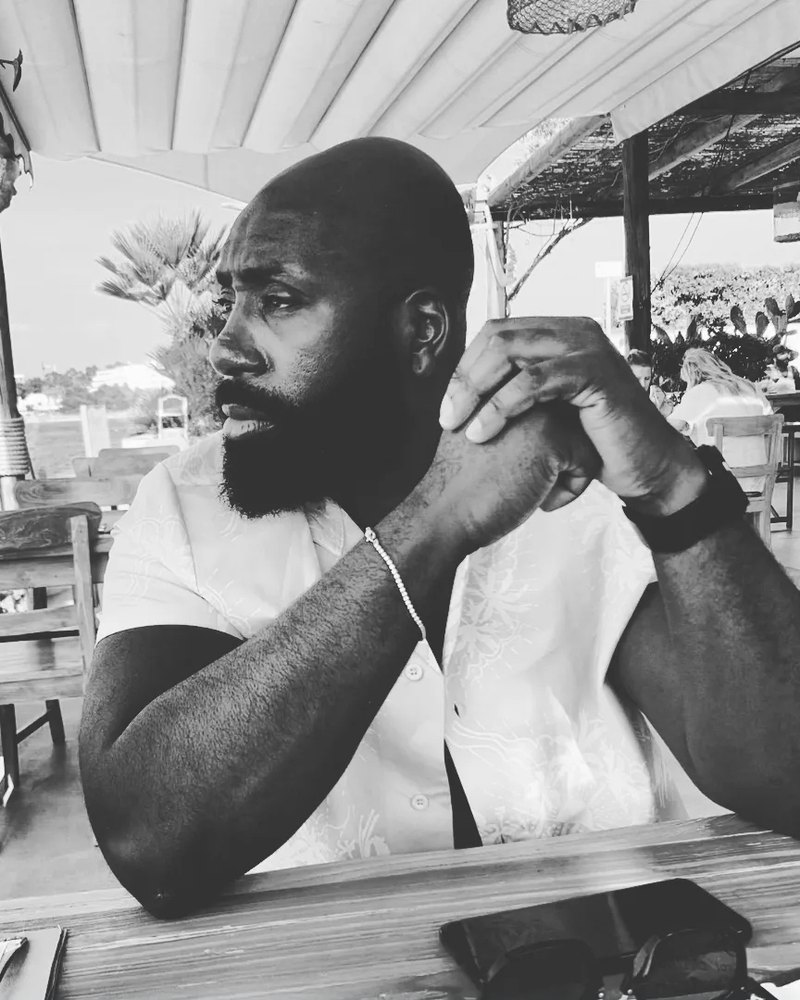
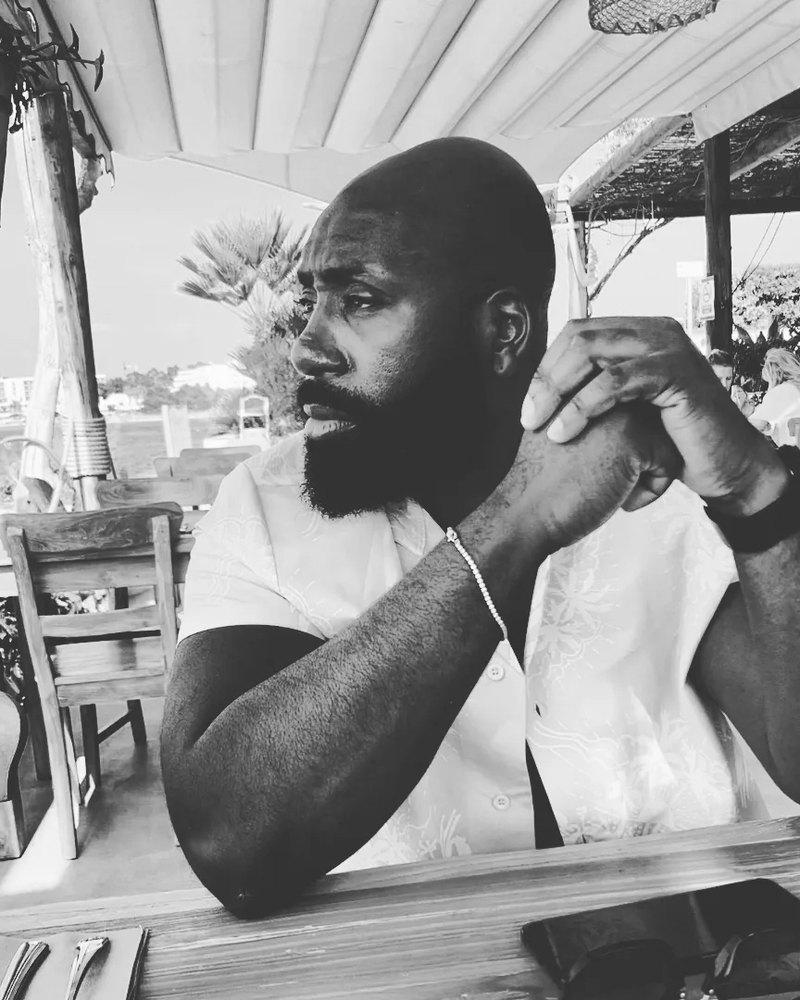
Creators: show the full photo with face centred
Claude-Session: https://claude.ai/code/session_013euigWjvx5WnN6LQU8fXHE

diff --git a/index.html b/index.html
@@ -246,7 +246,7 @@ footer .wrap{display:flex;justify-content:space-between;align-items:center;gap:2
 @media (max-width:520px){.lb .lb-prev,.lb .lb-next{top:auto;bottom:0;transform:none}}
 
 /* creators */
-.portrait{display:block;width:100%;max-width:100%;aspect-ratio:4/5;object-fit:cover;border:1px solid var(--curtain);box-shadow:0 30px 60px rgba(0,0,0,.45)}
+.portrait{display:block;width:100%;height:auto;max-width:100%;aspect-ratio:4/5;object-fit:cover;object-position:35% 30%;border:1px solid var(--curtain);box-shadow:0 30px 60px rgba(0,0,0,.45)}
 .creator{display:grid;grid-template-columns:minmax(0,340px) minmax(0,1fr);gap:56px;align-items:start;margin-top:40px}
 .creator > *{min-width:0}
 .portrait-ph{aspect-ratio:4/5;max-width:100%;border:1px solid var(--curtain);background:radial-gradient(70% 60% at 50% 35%,#231d12,var(--ink) 75%);display:grid;place-items:center;align-content:center;gap:14px}
